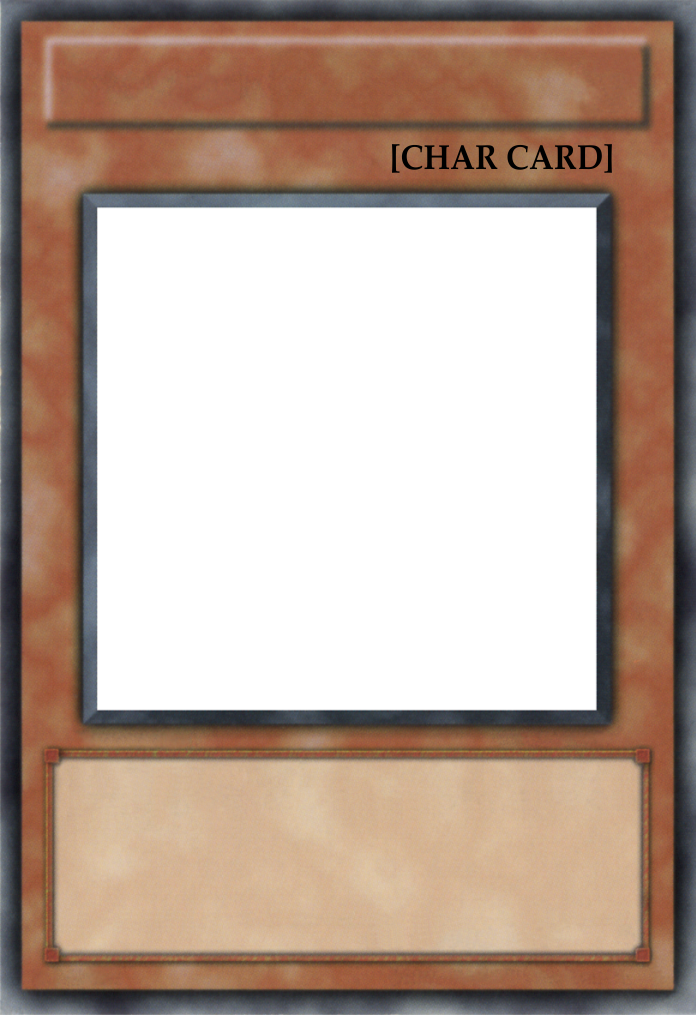
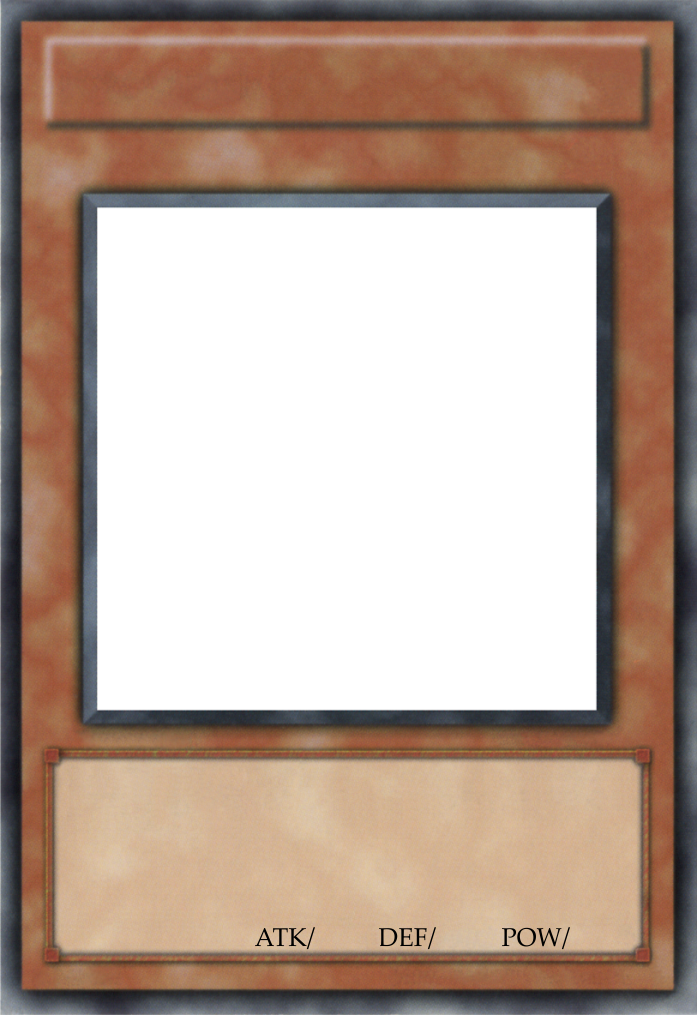
Add atk, def, power, decorator to Card view and controller

diff --git a/src/main/java/com/avatarduel/controller/CardController.java b/src/main/java/com/avatarduel/controller/CardController.java
@@ -14,9 +14,9 @@ import javafx.scene.paint.Color;
 import javafx.scene.text.Font;
 
 import com.avatarduel.AvatarDuel;
-import com.avatarduel.model.Card;
-import com.avatarduel.model.CardType;
-import com.avatarduel.model.Element;
+import com.avatarduel.model.*;
+import com.avatarduel.model.Character;
+import javafx.scene.text.TextAlignment;
 
 public class CardController implements Initializable {
     /**
@@ -40,6 +40,10 @@ public class CardController implements Initializable {
      */
     @FXML private ImageView element;
     /**
+     * Display card decorator
+     */
+    @FXML private ImageView decorator;
+    /**
      * Display image
      */
     @FXML private ImageView image;
@@ -47,7 +51,10 @@ public class CardController implements Initializable {
      * Display description
      */
     @FXML private TextArea description;
-
+    /**
+     * Display card stats
+     */
+    @FXML private Label attack, defense, power;
     /**
      * Constructor
      * @param card The Card
@@ -79,12 +86,16 @@ public class CardController implements Initializable {
     public void init() {
         // Set background
         String templatePath;
-        if (this.card.getCardType() == CardType.CHARACTER)
+        if (this.card.getCardType() == CardType.CHARACTER) {
             templatePath = "card/template/template_character.png";
-        else if (this.card.getCardType() == CardType.LAND)
+        } else if (this.card.getCardType() == CardType.LAND) {
             templatePath = "card/template/template_land.png";
-        else // this.card.getCardType() == CardType.SKILL
-            templatePath = "card/template/template_skill.png";
+        } else { // this.card.getCardType() == CardType.SKILL
+            if (((Skill) this.card).getEffect() == Effect.AURA)
+                templatePath = "card/template/template_skill_aura.png";
+            else
+                templatePath = "card/template/template_skill.png";
+        }
         this.background.setImage(new Image(AvatarDuel.class.getResource(templatePath).toString()));
         // Set element
         String elementPath;
@@ -97,6 +108,22 @@ public class CardController implements Initializable {
         else // this.card.getElement() == Element.WATER
             elementPath = "card/template/element_water.png";
         this.element.setImage(new Image(AvatarDuel.class.getResource(elementPath).toString()));
+        // Set decorator if any
+        String decoratorPath;
+        if (this.card.getCardType() == CardType.CHARACTER) {
+            int starCount = (((Character) this.card).getAttack() + ((Character) this.card).getDefense()) / 2;
+            decoratorPath = "card/template/star_" + ((starCount <= 10) ? (starCount) : (10)) +".png";
+            this.decorator.setImage(new Image(AvatarDuel.class.getResource(decoratorPath).toString()));
+        } else if (this.card.getCardType() == CardType.SKILL) {
+            if (((Skill) this.card).getEffect() == Effect.AURA)
+                decoratorPath = "card/template/skill_aura.png";
+            else if (((Skill) this.card).getEffect() == Effect.DESTROY)
+                decoratorPath = "card/template/skill_destroy.png";
+            else // ((Skill) this.card).getEffect() == Effect.POWER_UP
+                decoratorPath = "card/template/skill_power_up.png";
+            this.decorator.setImage(new Image(AvatarDuel.class.getResource(decoratorPath).toString()));
+            this.decorator.setTranslateY(-3);
+        }
         // Set name
         double nameTextSize = 13;
         if (this.card.getName().length() <= 20)
@@ -121,6 +148,29 @@ public class CardController implements Initializable {
         if (this.card.getDescription().length() > 150) descTextSize -= 0.5;
         this.description.setFont(Font.loadFont(AvatarDuel.class.getResourceAsStream("font/palatino-linotype.ttf"), descTextSize));
         this.description.setText(this.card.getDescription());
+        // Set card stats
+        if (this.card.getCardType() == CardType.CHARACTER) {
+            Character character = (Character) this.card;
+            this.attack.setFont(Font.loadFont(AvatarDuel.class.getResourceAsStream("font/palatino-linotype-bold.ttf"), 8));
+            this.attack.setText(String.valueOf(character.getAttack()));
+            this.defense.setFont(Font.loadFont(AvatarDuel.class.getResourceAsStream("font/palatino-linotype-bold.ttf"), 8));
+            this.defense.setText(String.valueOf(character.getDefense()));
+            this.power.setFont(Font.loadFont(AvatarDuel.class.getResourceAsStream("font/palatino-linotype-bold.ttf"), 8));
+            this.power.setText(String.valueOf(character.getPower()));
+        } else if (this.card.getCardType() == CardType.SKILL) {
+            Skill skill = (Skill) this.card;
+            if (skill.getEffect() == Effect.AURA) {
+                this.attack.setFont(Font.loadFont(AvatarDuel.class.getResourceAsStream("font/palatino-linotype-bold.ttf"), 8));
+                this.attack.setText(String.valueOf((((SkillAura) skill).getAttack())));
+                this.defense.setFont(Font.loadFont(AvatarDuel.class.getResourceAsStream("font/palatino-linotype-bold.ttf"), 8));
+                this.defense.setText(String.valueOf((((SkillAura) skill).getDefense())));
+            }
+            this.power.setFont(Font.loadFont(AvatarDuel.class.getResourceAsStream("font/palatino-linotype-bold.ttf"), 8));
+            this.power.setText(String.valueOf(skill.getPower()));
+        }
+        this.attack.setTextAlignment(TextAlignment.RIGHT);
+        this.defense.setTextAlignment(TextAlignment.RIGHT);
+        this.power.setTextAlignment(TextAlignment.RIGHT);
     }
 
     /**
